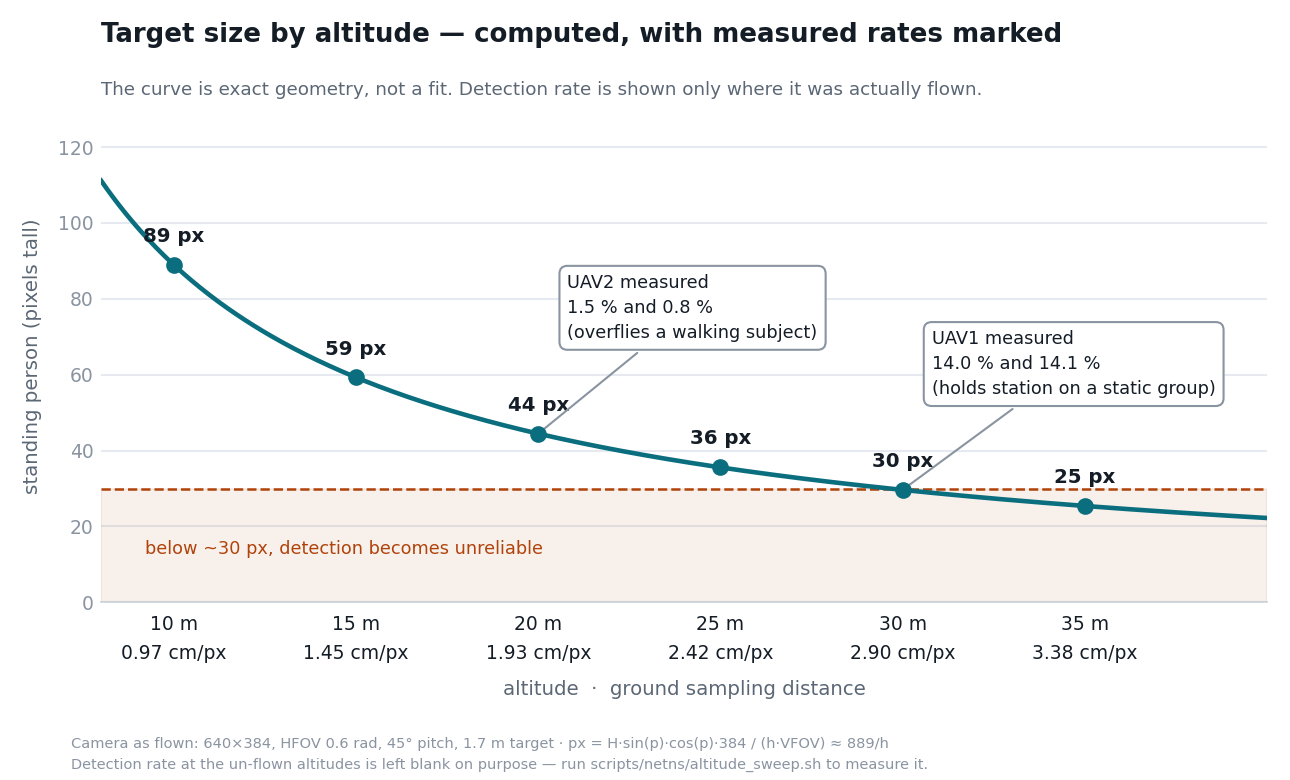
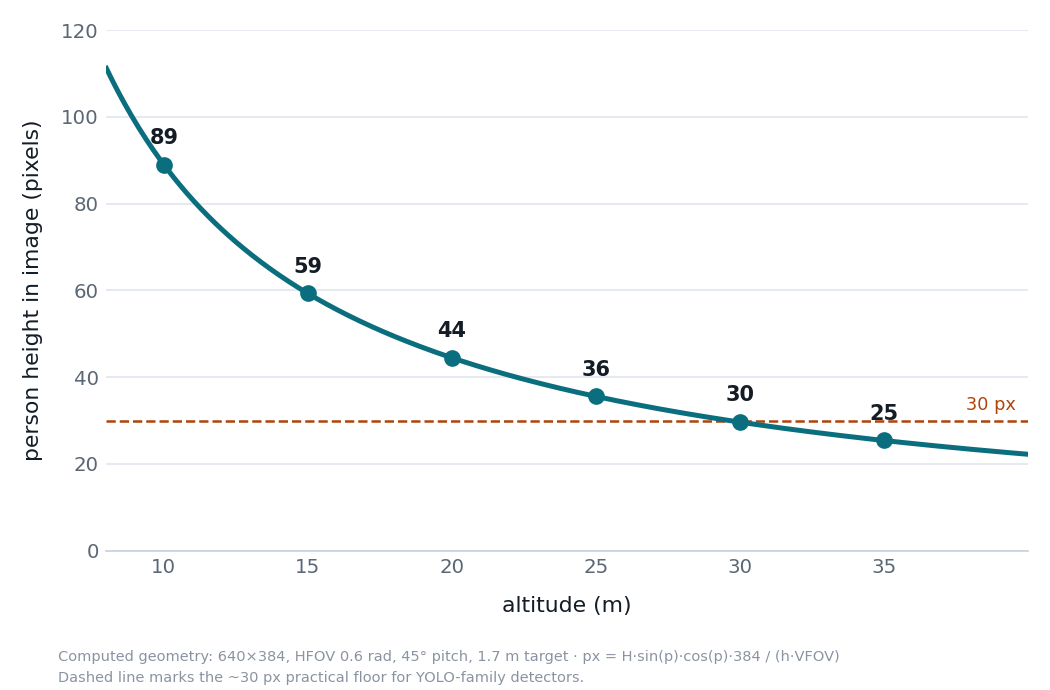
refactor: strip the altitude chart to the curve and its source
Dropped the title, subtitle, GSD sub-labels on the ticks, the shaded
band and the two measured-rate callout boxes. The curve and its marker
values carry the finding; the callouts were three lines of prose sitting
on top of the plot.

Kept: the marker value at each altitude, both axis labels, the 30 px
floor line, and the source line recording the camera parameters and the
formula.

diff --git a/scripts/make_altitude_chart.py b/scripts/make_altitude_chart.py
@@ -1,17 +1,13 @@
 #!/usr/bin/env python3
-"""Target size by altitude, with the detection rates actually measured.
+"""Target size against altitude.
 
-Every value plotted is either computed exactly from the camera geometry or
-measured in a real run. Nothing is interpolated or assumed:
+The curve is exact geometry for the delivered camera, not a fit:
+px = H*sin(p)*cos(p)*384 / (h*VFOV), which reduces to about 889/h at 45 deg.
 
-  * the curve      - exact, px = H*sin(p)*cos(p)*384 / (h*VFOV)
-  * the markers    - the same formula at the requested altitudes
-  * the two labels - measured, results/*/summary.txt
-
-The detection rate at the un-flown altitudes is deliberately NOT drawn. Only
-two altitudes have been flown, and they differ in mission geometry as well as
-height, so any curve through them would attribute to altitude an effect caused
-by dwell time. Fly scripts/netns/altitude_sweep.sh to fill this in for real.
+No detection rate is plotted. Only two altitudes have been flown and they
+differ in mission geometry as well as height, so a curve through them would
+attribute to altitude an effect caused by dwell time on target. Fly
+scripts/netns/altitude_sweep.sh to measure it properly.
 
     python3 scripts/make_altitude_chart.py
 
@@ -35,19 +31,8 @@ VFOV = 2 * math.atan((H_PX / 2) / ((W_PX / 2) / math.tan(HFOV / 2)))
 # 0 m is omitted: the aircraft is on the ground there and the formula diverges.
 MARKS = [10, 15, 20, 25, 30, 35]
 
-# Measured, from results/*/summary.txt. Geometry differs between the aircraft,
-# which is exactly why they are annotations and not a fitted line.
-MEASURED = {
-    30: ("UAV1 measured\n14.0 % and 14.1 %", "holds station on a static group"),
-    20: ("UAV2 measured\n1.5 % and 0.8 %", "overflies a walking subject"),
-}
-
-ACCENT, NEUTRAL, CAUTION = "#0B6E7F", "#8A94A1", "#B0430B"
+ACCENT, CAUTION = "#0B6E7F", "#B0430B"
 INK, MUTED, FAINT, GRID = "#141C26", "#5B6775", "#8A94A1", "#E6EAF0"
-
-
-def gsd_cm(h):
-    return 2 * h * math.tan(HFOV / 2) / W_PX * 100
 
 
 def person_px(h):
@@ -56,65 +41,40 @@ def person_px(h):
 
 def main():
     h = np.linspace(8, 40, 400)
-    fig, ax = plt.subplots(figsize=(8.6, 5.2), dpi=150)
+    fig, ax = plt.subplots(figsize=(7.0, 4.6), dpi=150)
     fig.patch.set_facecolor("white")
     ax.set_facecolor("white")
 
-    ax.axhspan(0, 30, color=CAUTION, alpha=0.08, zorder=1)
     ax.axhline(30, color=CAUTION, linewidth=1.2, linestyle="--", zorder=2)
-    ax.plot(h, [person_px(x) for x in h], color=ACCENT, linewidth=2.2, zorder=3)
+    ax.plot(h, [person_px(x) for x in h], color=ACCENT, linewidth=2.4, zorder=3)
 
     for m in MARKS:
         px = person_px(m)
         ax.plot([m], [px], "o", ms=7, color=ACCENT, zorder=5)
-        ax.annotate(f"{px:.0f} px", (m, px), textcoords="offset points",
-                    xytext=(0, 11), ha="center", fontsize=9.5,
+        ax.annotate(f"{px:.0f}", (m, px), textcoords="offset points",
+                    xytext=(0, 10), ha="center", fontsize=10,
                     fontweight="bold", color=INK)
 
-    # Left end of the band: the right end collides with the 35 m marker label.
-    ax.text(9.2, 14, "below ~30 px, detection becomes unreliable",
-            fontsize=8.5, color=CAUTION, ha="left", va="center")
-
-    # Measured rates: called out against the altitude they were flown at, with
-    # the mission geometry named so the two are never read as one trend.
-    for alt, (label, geom) in MEASURED.items():
-        px = person_px(alt)
-        ax.annotate(f"{label}\n({geom})", (alt, px),
-                    textcoords="offset points", xytext=(14, 46),
-                    fontsize=8.5, color=INK, linespacing=1.5,
-                    bbox=dict(boxstyle="round,pad=0.45", facecolor="white",
-                              edgecolor=NEUTRAL, linewidth=1),
-                    arrowprops=dict(arrowstyle="-", color=NEUTRAL, linewidth=1))
+    ax.annotate("30 px", (39.6, 30), textcoords="offset points", xytext=(0, 5),
+                ha="right", fontsize=8.5, color=CAUTION)
 
     ax.set_xticks(MARKS)
-    ax.set_xticklabels([f"{m} m\n{gsd_cm(m):.2f} cm/px" for m in MARKS],
-                       fontsize=9, color=INK, linespacing=1.7)
     ax.set_xlim(8, 40)
-    ax.set_ylim(0, 130)
-    ax.set_ylabel("standing person (pixels tall)", fontsize=9.5,
-                  color=MUTED, labelpad=8)
-    ax.set_xlabel("altitude  ·  ground sampling distance", fontsize=9.5,
-                  color=MUTED, labelpad=8)
-    ax.tick_params(axis="y", labelsize=9, colors=FAINT, length=0)
-    ax.tick_params(axis="x", length=0, pad=6)
+    ax.set_ylim(0, 120)
+    ax.set_xlabel("altitude (m)", fontsize=10.5, color=INK, labelpad=9)
+    ax.set_ylabel("person height in image (pixels)",
+                  fontsize=10.5, color=INK, labelpad=9)
+    ax.tick_params(labelsize=9.5, colors=MUTED, length=0)
     ax.yaxis.grid(True, color=GRID, linewidth=1, zorder=0)
     ax.set_axisbelow(True)
     for side in ("top", "right", "left"):
         ax.spines[side].set_visible(False)
     ax.spines["bottom"].set_color("#C9D1DA")
 
-    ax.set_title("Target size by altitude — computed, with measured rates marked",
-                 fontsize=12.5, fontweight="bold", color=INK, pad=32, loc="left")
-    ax.text(0, 1.028,
-            "The curve is exact geometry, not a fit. Detection rate is shown only "
-            "where it was actually flown.",
-            transform=ax.transAxes, fontsize=8.8, color=MUTED)
-
-    fig.text(0.055, 0.014,
-             "Camera as flown: 640×384, HFOV 0.6 rad, 45° pitch, 1.7 m target · "
-             "px = H·sin(p)·cos(p)·384 / (h·VFOV) ≈ 889/h\n"
-             "Detection rate at the un-flown altitudes is left blank on purpose — "
-             "run scripts/netns/altitude_sweep.sh to measure it.",
+    fig.text(0.055, 0.012,
+             "Computed geometry: 640×384, HFOV 0.6 rad, 45° pitch, 1.7 m target · "
+             "px = H·sin(p)·cos(p)·384 / (h·VFOV)\nDashed line marks the ~30 px "
+             "practical floor for YOLO-family detectors.",
              fontsize=7, color=FAINT, linespacing=1.6)
 
     fig.tight_layout(rect=[0, 0.075, 1, 1])
@@ -122,7 +82,7 @@ def main():
     fig.savefig(OUT, facecolor="white", edgecolor="none")
     print(f"  {OUT.relative_to(ROOT)}  {OUT.stat().st_size // 1024} KB")
     for m in MARKS:
-        print(f"    {m:2d} m   GSD {gsd_cm(m):.2f} cm/px   person {person_px(m):5.1f} px")
+        print(f"    {m:2d} m   {person_px(m):5.1f} px")
 
 
 if __name__ == "__main__":
